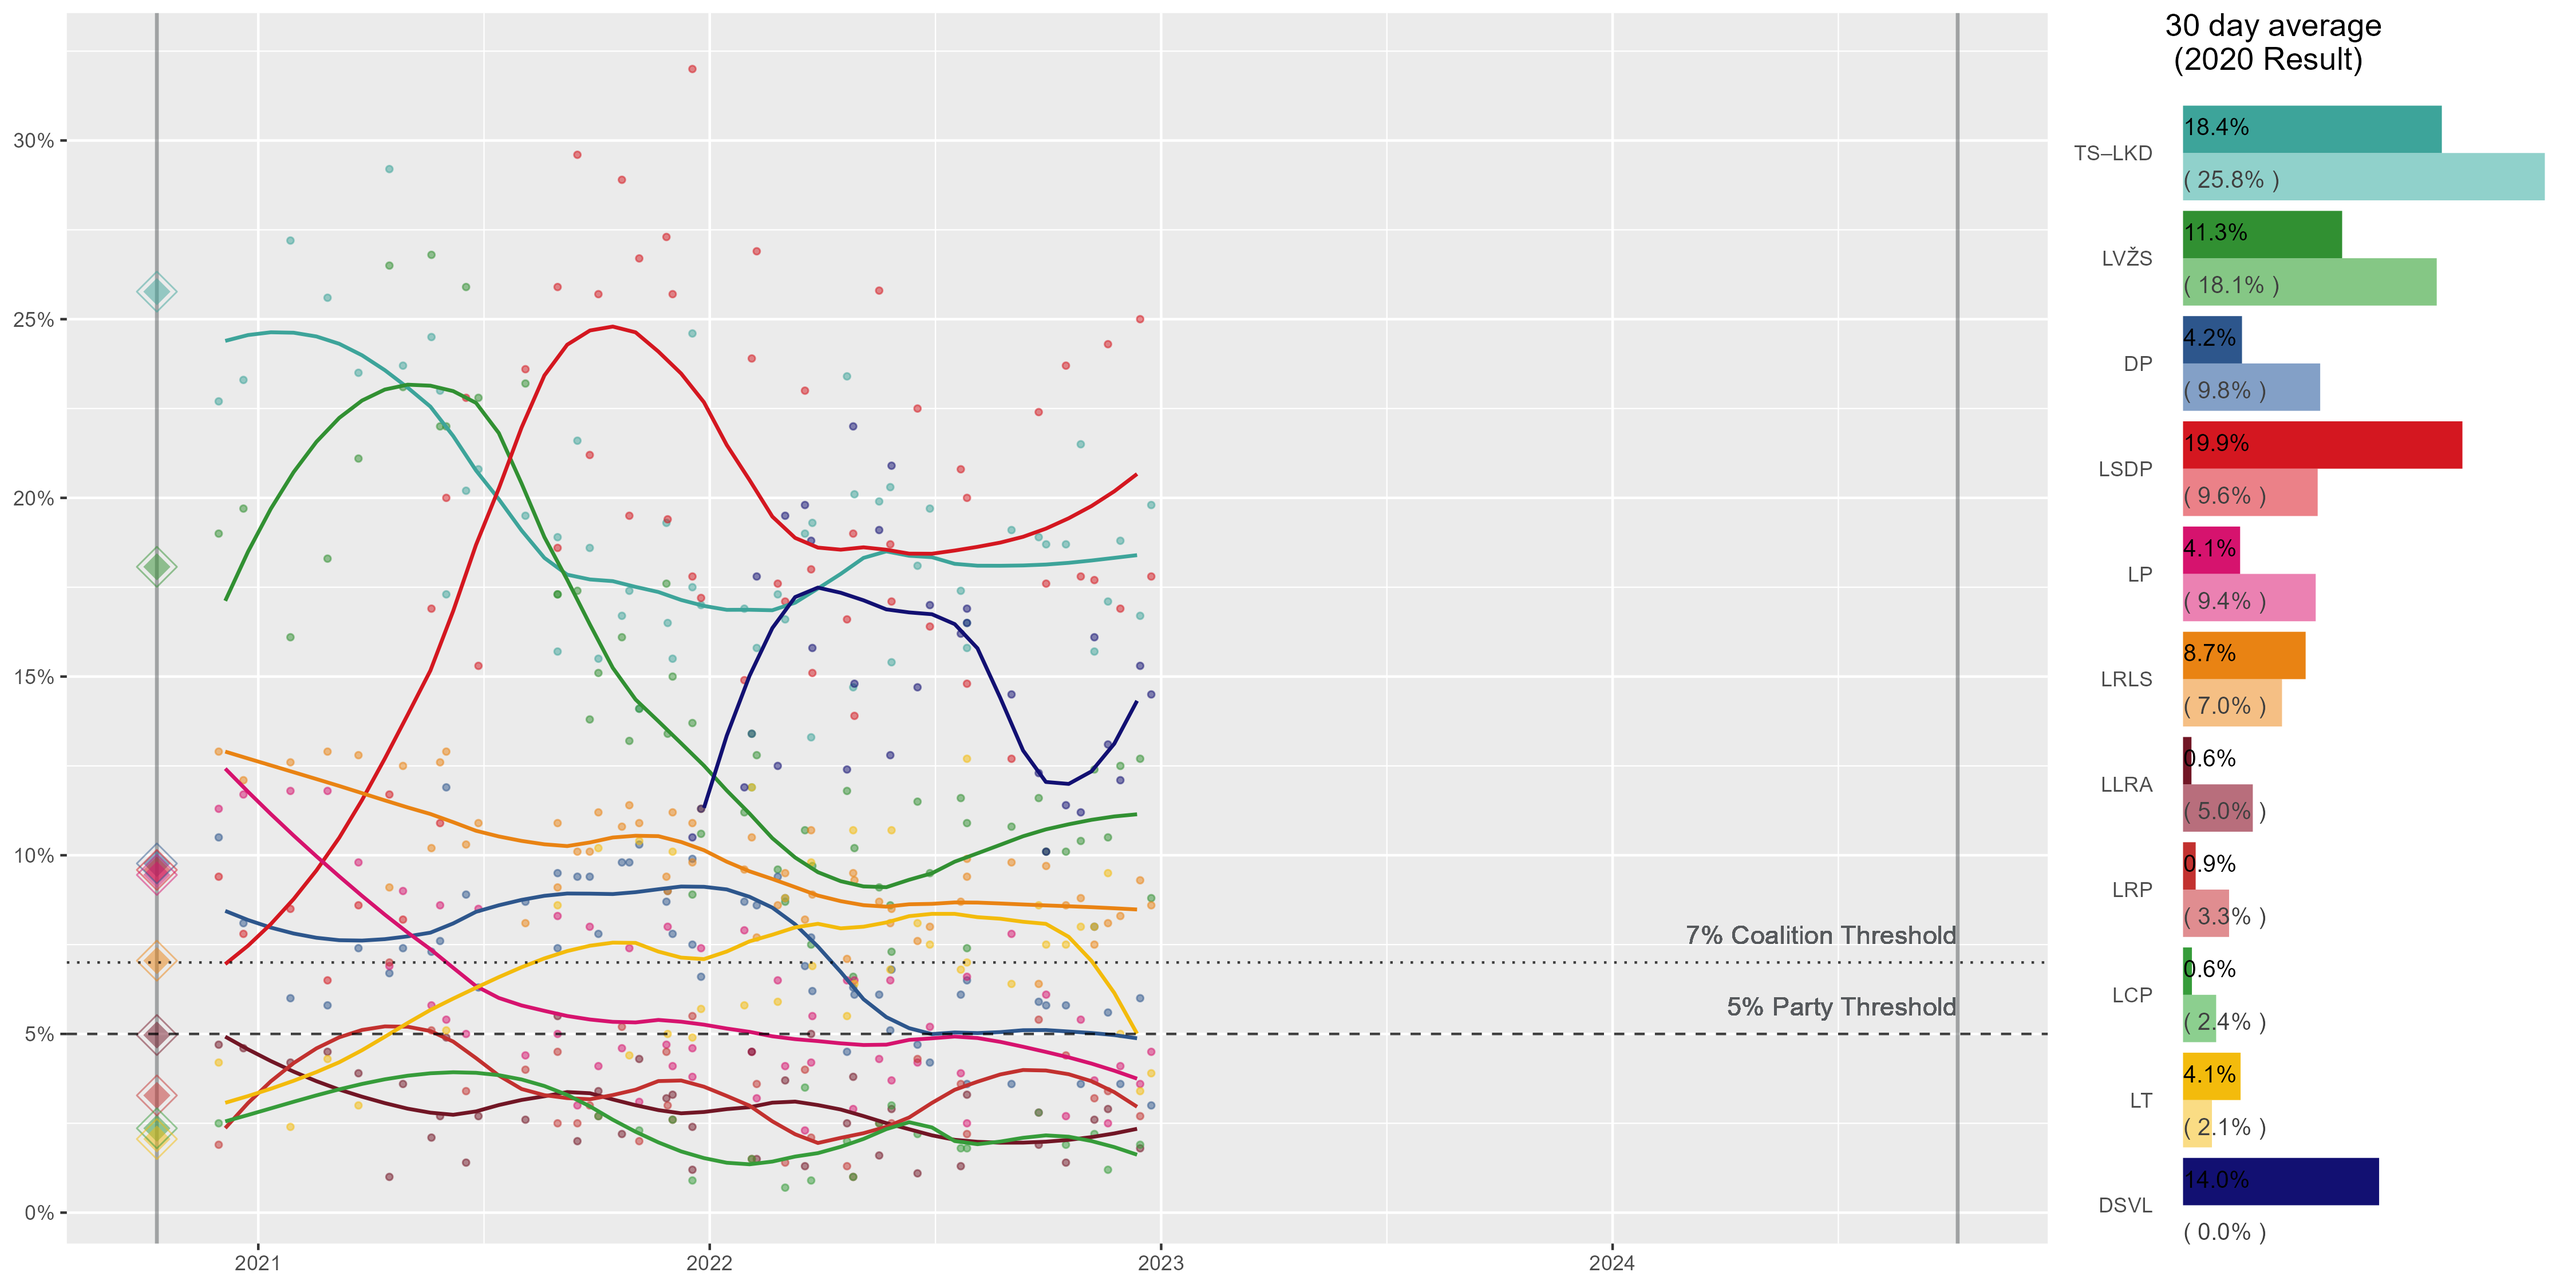
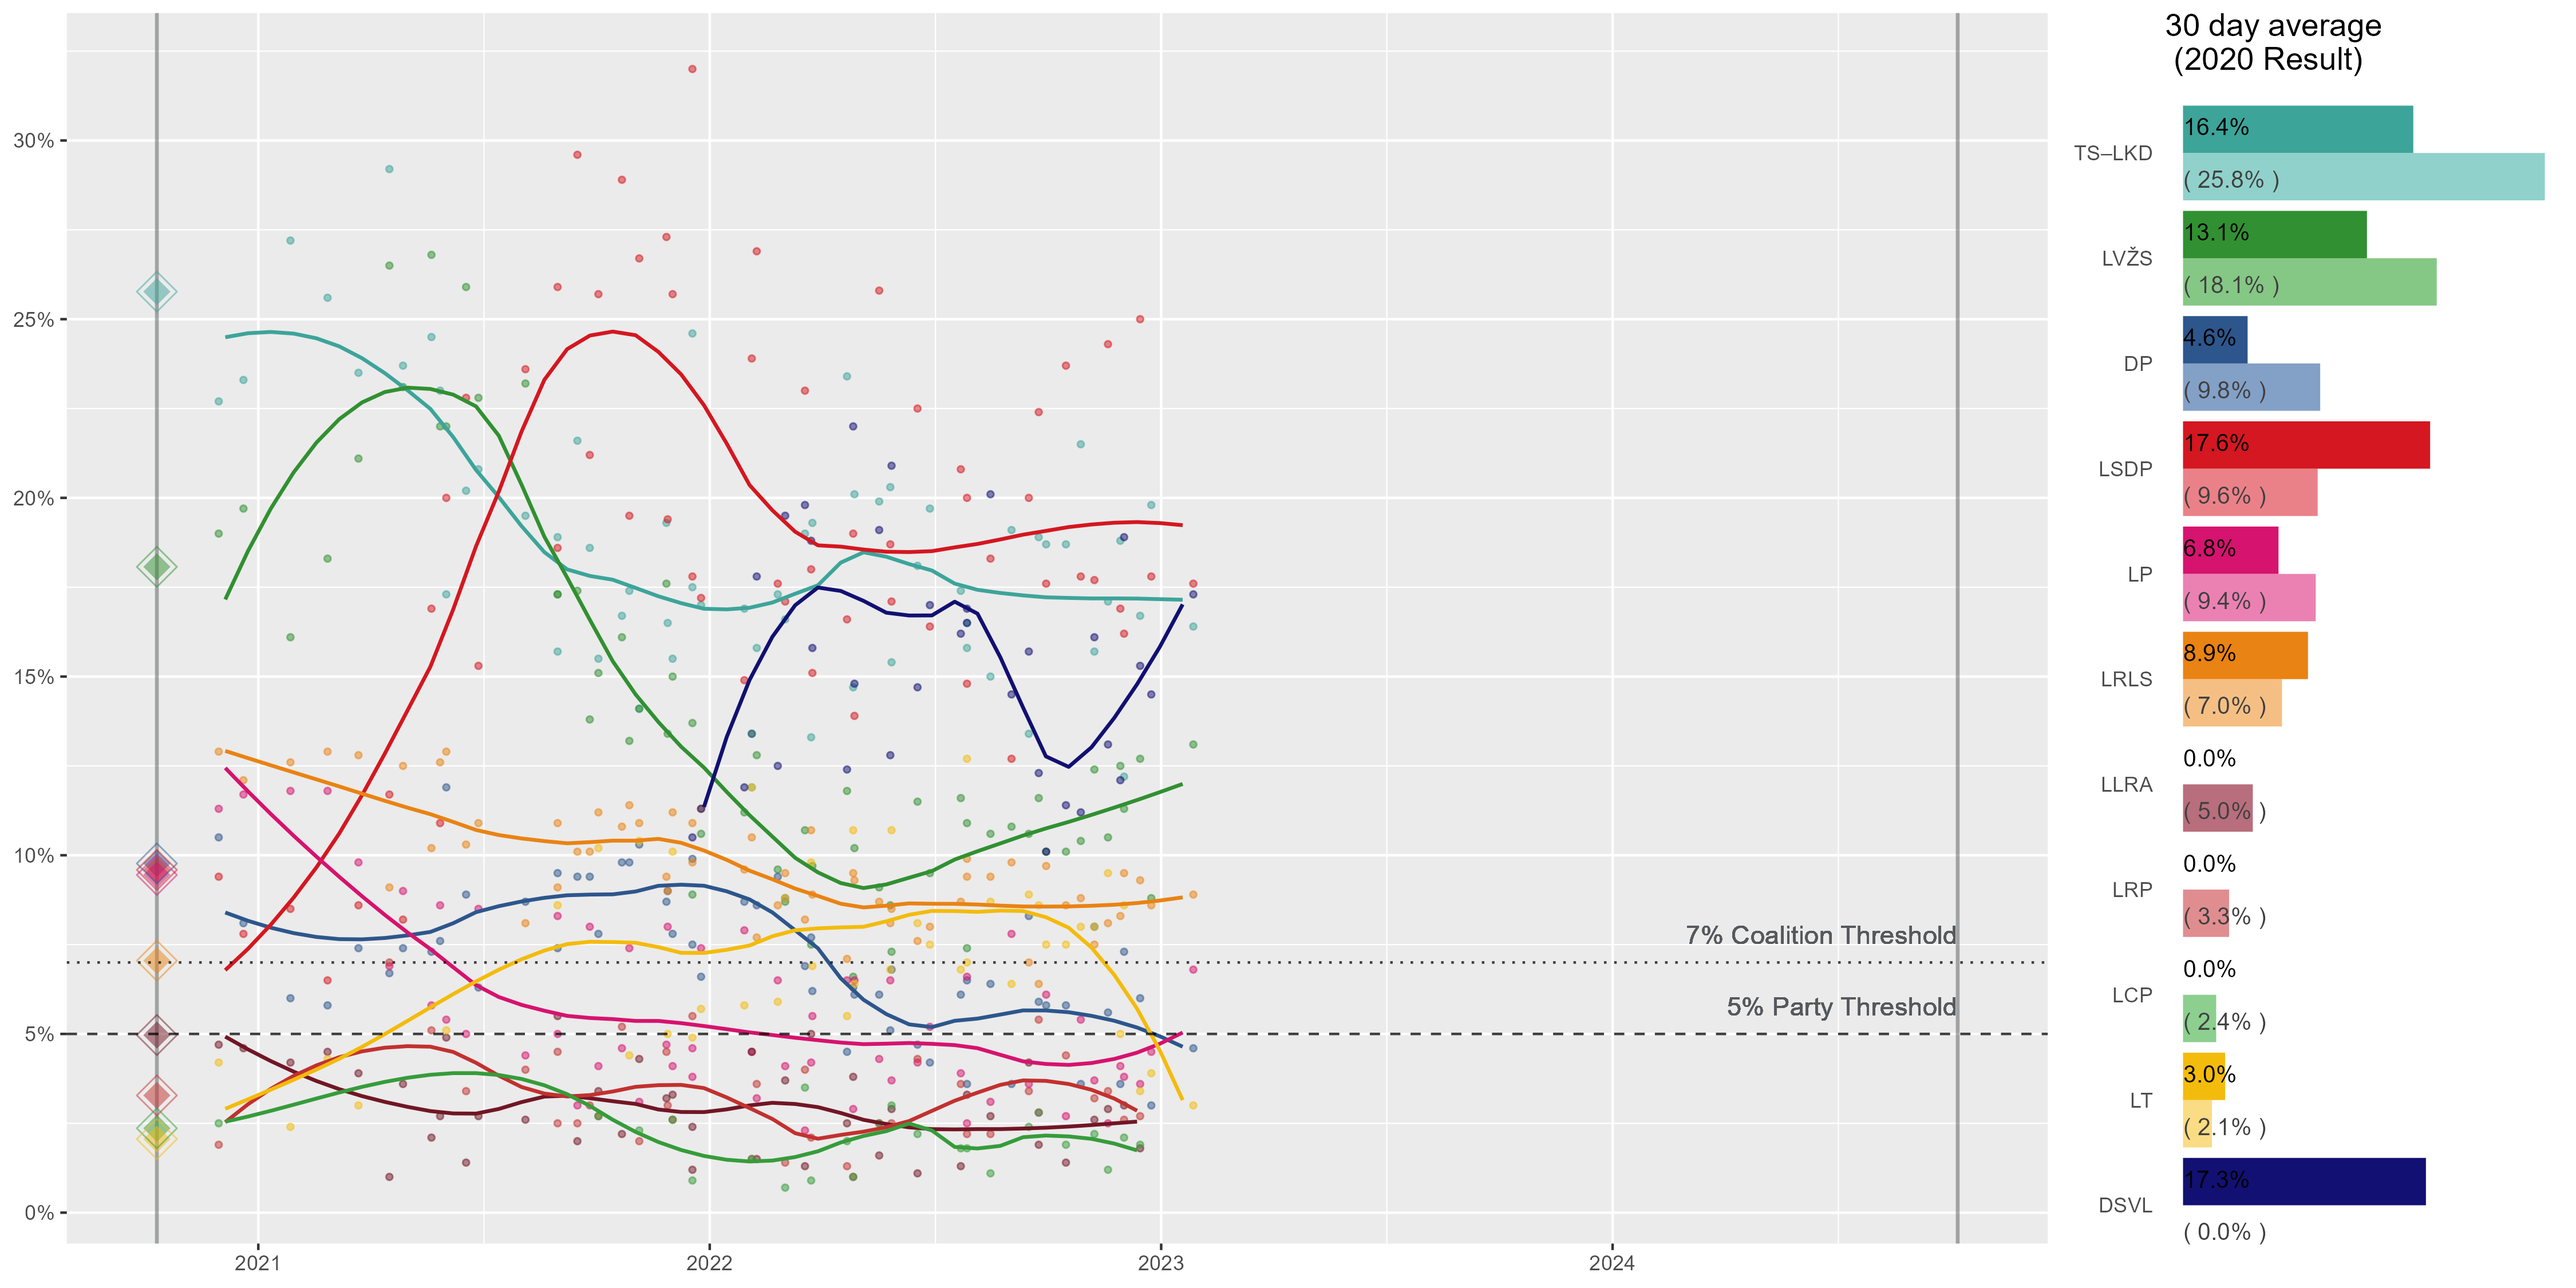
New Polls Added

diff --git a/Lithuanian_Elections/data.py b/Lithuanian_Elections/data.py
@@ -19,6 +19,10 @@ data22.columns = headers
 
 data22['Date'] = [x.replace('[a]','') for x in data22['Date'].astype(str)]
 data22['Date'] = [x.replace('[b]','') for x in data22['Date'].astype(str)]
+data22['Date'] = [x.replace('[c]','') for x in data22['Date'].astype(str)]
+data22['Date'] = [x.replace('[d]','') for x in data22['Date'].astype(str)]
+data22['Date'] = [x.replace('[e]','') for x in data22['Date'].astype(str)]
+data22['Date'] = [x.replace('[f]','') for x in data22['Date'].astype(str)]
 data22['Date2'] = data22['Date'].str.split('–').str[1]
 data22.Date2.fillna(data22['Date'].str.split('-').str[1], inplace=True)
 data22.Date2.fillna(data22.Date, inplace=True)
